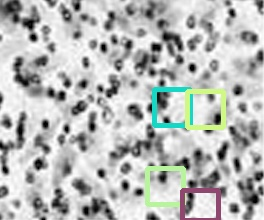
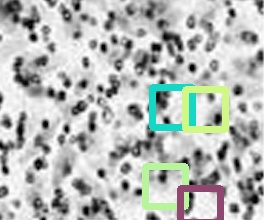
Changed cluster gap to be 40 for all

Changed region(s): [[0.5455, 0.3545, 0.8788, 0.6273], [0.5152, 0.7364, 0.8485, 1.0]]

diff --git a/writeDefaultJson.py b/writeDefaultJson.py
@@ -25,7 +25,7 @@ class WriteDefaultJson:
                         "min_hess":400,
                         "lowes_ratio":0.5,
                         "min_num_in_cluster_to_accept":1,
-                        "cluster_gap":30,
+                        "cluster_gap":40,
                         "line_width":10,
                         "num_matches":7,
                         "outputPath1":"figure_1_output/cells_2_1_surf.jpg",
@@ -42,7 +42,7 @@ class WriteDefaultJson:
                     "sift":{
                         "lowes_ratio":0.5,
                         "min_num_in_cluster_to_accept":1,
-                        "cluster_gap":30,
+                        "cluster_gap":40,
                         "line_width":10,
                         "num_matches":7,
                         "outputPath1":"figure_1_output/cells_2_1_sift.jpg",
@@ -96,7 +96,7 @@ class WriteDefaultJson:
                         "min_hess":400,
                         "lowes_ratio":0.5,
                         "min_num_in_cluster_to_accept":1,
-                        "cluster_gap":20,
+                        "cluster_gap":40,
                         "line_width":5,
                         "num_matches":7,
                         "outputPath1":"figure_1_output/cells_19_1_surf.jpg",
